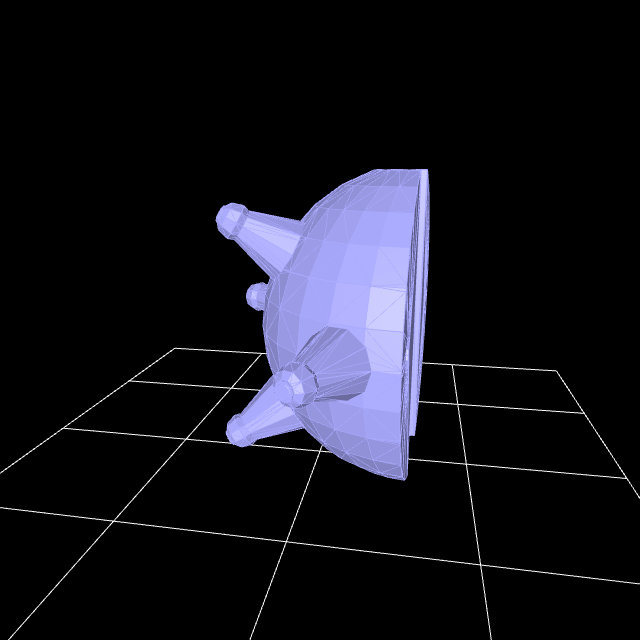
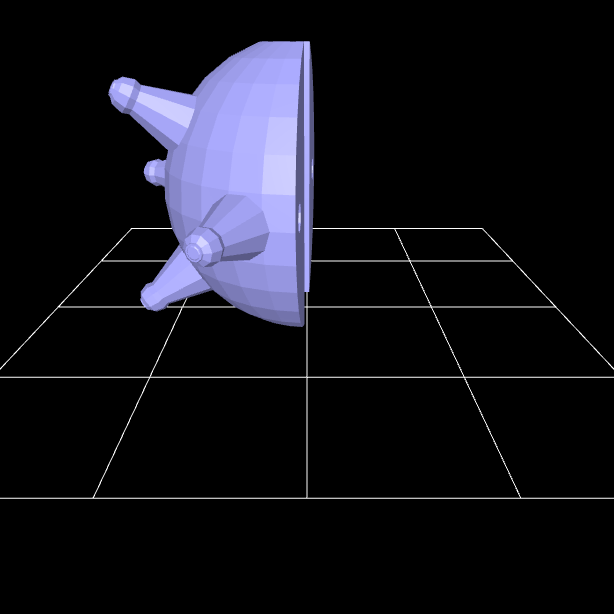
Updated AMF preview pictures and demo

diff --git a/demo/index-amf.html b/demo/index-amf.html
@@ -56,8 +56,8 @@
                               title='Demo Object'>
         <model-viewer loadmethod='amf'
                       model='split_pyramid.amf'
-                      modelname='Demo STL'
-                      previewimg='demo.stl.png'
+                      modelname='Split Pyramid'
+                      previewimg='demo.amf.png'
                       togglewireframe=true></model-viewer>
       </model-viewer-container>
     </div>

diff --git a/model-viewer.html b/model-viewer.html
@@ -669,7 +669,7 @@
 
       // Keep object above floor
       if(obj.boundingbox.min.z < 0) {
-        obj.translateZ(-obj.boundingbox.min.z);
+        obj.mesh.translateZ(-obj.boundingbox.min.z);
       }
 
       obj.boundingbox.setFromObject(obj.mesh);
